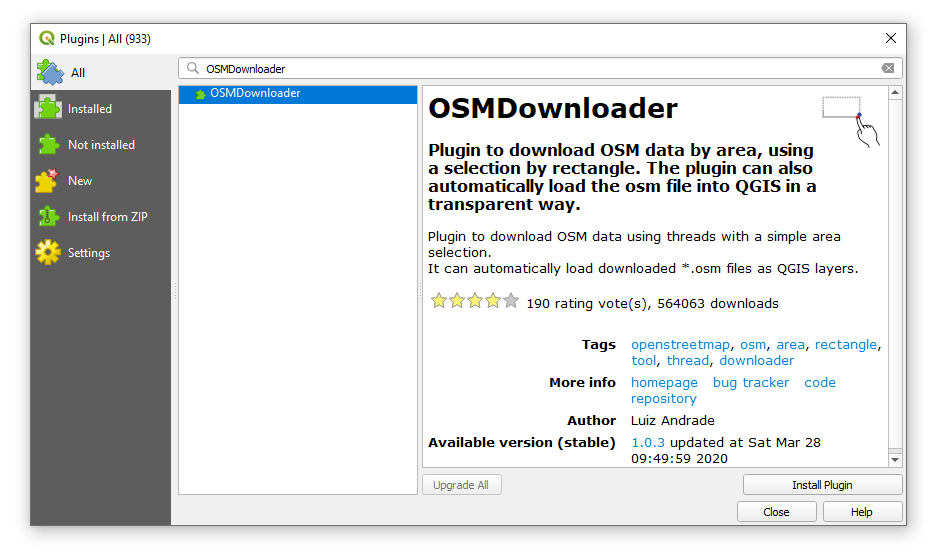
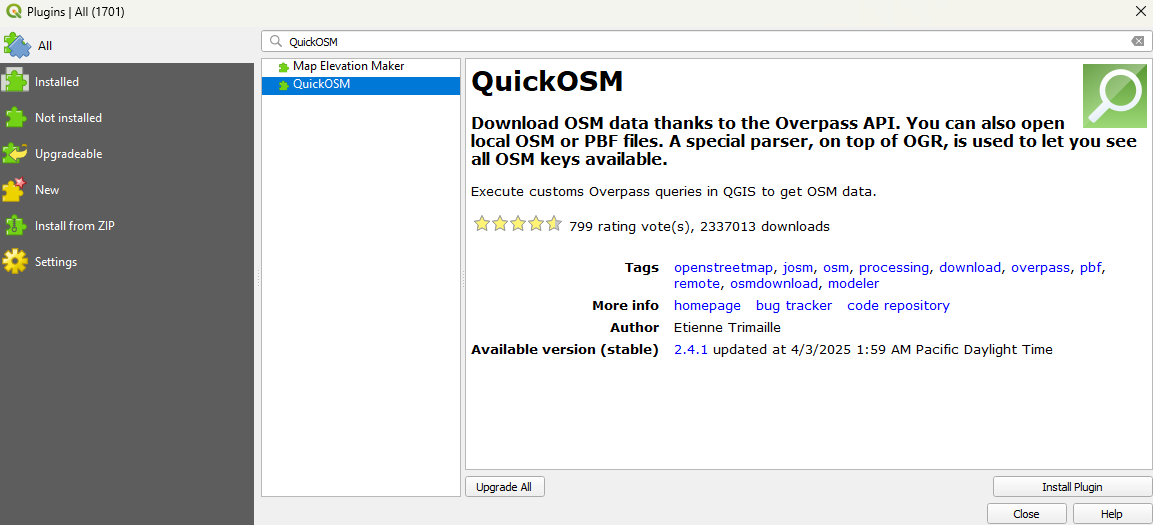
UBC text updated to University of British Columbia

Changed region(s): [[0.0, 0.0, 1.0, 1.0], [0.9893, 0.0, 1.0, 0.0305]]

diff --git a/docs/qgis-openstreetmap.html b/docs/qgis-openstreetmap.html
@@ -6,7 +6,7 @@
   <meta http-equiv="X-UA-Compatible" content="IE=edge" />
   <title>Lab 4 Exploring QGIS and OpenStreetMap | GEM 510: GIS for Forestry and Conservation</title>
   <meta name="description" content="Open Educational Resources for GEM 510 course at the University of British Columbia" />
-  <meta name="generator" content="bookdown 0.44 and GitBook 2.6.7" />
+  <meta name="generator" content="bookdown 0.48 and GitBook 2.6.7" />
 
   <meta property="og:title" content="Lab 4 Exploring QGIS and OpenStreetMap | GEM 510: GIS for Forestry and Conservation" />
   <meta property="og:type" content="book" />
@@ -23,7 +23,7 @@
 <meta name="author" content="Paul D. Pickell" />
 
 
-<meta name="date" content="2025-08-31" />
+<meta name="date" content="2026-11-03" />
 
   <meta name="viewport" content="width=device-width, initial-scale=1" />
   <meta name="apple-mobile-web-app-capable" content="yes" />
@@ -54,70 +54,6 @@
 <script src="libs/anchor-sections-1.1.0/anchor-sections.js"></script>
 
 
-<style type="text/css">
-pre > code.sourceCode { white-space: pre; position: relative; }
-pre > code.sourceCode > span { line-height: 1.25; }
-pre > code.sourceCode > span:empty { height: 1.2em; }
-.sourceCode { overflow: visible; }
-code.sourceCode > span { color: inherit; text-decoration: inherit; }
-pre.sourceCode { margin: 0; }
-@media screen {
-div.sourceCode { overflow: auto; }
-}
-@media print {
-pre > code.sourceCode { white-space: pre-wrap; }
-pre > code.sourceCode > span { display: inline-block; text-indent: -5em; padding-left: 5em; }
-}
-pre.numberSource code
-  { counter-reset: source-line 0; }
-pre.numberSource code > span
-  { position: relative; left: -4em; counter-increment: source-line; }
-pre.numberSource code > span > a:first-child::before
-  { content: counter(source-line);
-    position: relative; left: -1em; text-align: right; vertical-align: baseline;
-    border: none; display: inline-block;
-    -webkit-touch-callout: none; -webkit-user-select: none;
-    -khtml-user-select: none; -moz-user-select: none;
-    -ms-user-select: none; user-select: none;
-    padding: 0 4px; width: 4em;
-    color: #aaaaaa;
-  }
-pre.numberSource { margin-left: 3em; border-left: 1px solid #aaaaaa;  padding-left: 4px; }
-div.sourceCode
-  {   }
-@media screen {
-pre > code.sourceCode > span > a:first-child::before { text-decoration: underline; }
-}
-code span.al { color: #ff0000; font-weight: bold; } /* Alert */
-code span.an { color: #60a0b0; font-weight: bold; font-style: italic; } /* Annotation */
-code span.at { color: #7d9029; } /* Attribute */
-code span.bn { color: #40a070; } /* BaseN */
-code span.bu { color: #008000; } /* BuiltIn */
-code span.cf { color: #007020; font-weight: bold; } /* ControlFlow */
-code span.ch { color: #4070a0; } /* Char */
-code span.cn { color: #880000; } /* Constant */
-code span.co { color: #60a0b0; font-style: italic; } /* Comment */
-code span.cv { color: #60a0b0; font-weight: bold; font-style: italic; } /* CommentVar */
-code span.do { color: #ba2121; font-style: italic; } /* Documentation */
-code span.dt { color: #902000; } /* DataType */
-code span.dv { color: #40a070; } /* DecVal */
-code span.er { color: #ff0000; font-weight: bold; } /* Error */
-code span.ex { } /* Extension */
-code span.fl { color: #40a070; } /* Float */
-code span.fu { color: #06287e; } /* Function */
-code span.im { color: #008000; font-weight: bold; } /* Import */
-code span.in { color: #60a0b0; font-weight: bold; font-style: italic; } /* Information */
-code span.kw { color: #007020; font-weight: bold; } /* Keyword */
-code span.op { color: #666666; } /* Operator */
-code span.ot { color: #007020; } /* Other */
-code span.pp { color: #bc7a00; } /* Preprocessor */
-code span.sc { color: #4070a0; } /* SpecialChar */
-code span.ss { color: #bb6688; } /* SpecialString */
-code span.st { color: #4070a0; } /* String */
-code span.va { color: #19177c; } /* Variable */
-code span.vs { color: #4070a0; } /* VerbatimString */
-code span.wa { color: #60a0b0; font-weight: bold; font-style: italic; } /* Warning */
-</style>
 
 <style type="text/css">
   
@@ -290,54 +226,58 @@ Paul Pickell</p>
 <div id="task-1-downloading-openstreetmap-data-to-qgis" class="section level2 unnumbered hasAnchor">
 <h2>Task 1: Downloading OpenStreetMap data to QGIS<a href="qgis-openstreetmap.html#task-1-downloading-openstreetmap-data-to-qgis" class="anchor-section" aria-label="Anchor link to header"></a></h2>
 <p><strong>Step 1:</strong> Start QGIS and click <strong>New Empty Project</strong> from the Project Templates on your screen.</p>
-<p><img src="images/04-qgis-project-template.png" width="50%" /></p>
+<p><img src="images/04-qgis-project-template.png" alt="" width="50%" /></p>
 <p>The Project Templates prompt will disappear to a white canvas, which is where you are able to view mapped data. On the left of your screen you will see two panes: <strong>Browser</strong> and <strong>Layers</strong>. These are where you can find data sources on your computer or network and the layers that are currently loaded into your map view. Currently, we do not have any data to view, so the Layers pane will be blank. But we do have many sources for data, so let us look at those. Depending on your computer and networking connections, your Browser pane may look different than what is shown below.</p>
-<p><img src="images/04-qgis-add-tiles.png" width="50%" /></p>
+<p><img src="images/04-qgis-add-tiles.png" alt="" width="50%" /></p>
 <p><strong>Step 2:</strong> Save your project. In the top menu, select <strong>Project</strong> then click <strong>Save As…</strong> and navigate to a location on your computer where you want to store your project and related files. You should create a directory specifically for this purpose.</p>
 <p><strong>Step 3:</strong> Expand <strong>XYZ Tiles</strong> and then either double-click <strong>OpenStreetMap</strong> or right-click and select <strong>Add Layer to Project</strong>.</p>
-<p><img src="images/04-qgis-osm-layers.png" width="50%" /></p>
+<p><img src="images/04-qgis-osm-layers.png" alt="" width="50%" /></p>
 <p>This will add the OpenStreetMap base map to your map view, so you should now see your first layer in the Layer pane and the map view should automatically display the new base map.</p>
-<p><img src="images/04-qgis-navigation-bar.png" width="75%" /></p>
+<p><img src="images/04-qgis-navigation-bar.png" alt="" width="75%" /></p>
 <p><strong>Step 4:</strong> Locate the Map Navigation Toolbar at the top. Use the magnifying glass to zoom into the area for Metro Vancouver. Once you find Metro Vancouver, change the scale of the map to 1:250000 at the bottom of your QGIS interface.</p>
-<p><img src="images/04-qgis-osm-basemap-vancouver.png" width="75%" /></p>
+<p><img src="images/04-qgis-osm-basemap-vancouver.png" alt="" width="75%" /></p>
 <p>This current view does not directly show you the OpenStreetMap data. Instead, you are looking at a tile service provided by OpenStreetMap, which symbolizes the OpenStreetMap data and then, depending on your zoom level and location, sends the necessary information to your computer in the form of a tile like the one pictured below showing a 256x256 pixel tile at zoom level 10 (zoom level 1 is the smallest scale world map).</p>
-<p><img src="images/04-qgis-tile.png" width="256pt" /></p>
+<p><img src="images/04-qgis-tile.png" alt="" width="256pt" /></p>
 <p>In order to get the OpenStreetMap data, we need to install a plugin for QGIS. Plugins are written by a community of volunteer developers, some from organizations that pay for the plugin to be developed and then released as FOSS, and others just volunteer their time. Plugins are incredibly important for QGIS, because only basic features end up in the core GIS software. If there is ever something you want to do that is not a basic feature of QGIS, you probably need to search for a plugin or write one yourself!</p>
-<p><strong>Step 5:</strong> From the menu bar at the top, click <strong>Plugins</strong> and then select <strong>Manage and Install Plugins…</strong> to open the <strong>Plugin Manager</strong>. Since these plugins are fetched from a server, you need to be connected to the internet to see plugins available for download. In the search bar, search for the <strong>OSMDownloader</strong> plugin. Click <strong>Install Plugin</strong>.</p>
-<p><img src="images/04-qgis-osm-downloader-plugin.png" width="75%" /></p>
-<p>Once the plugin is installed, you can click <strong>Close</strong> to dismiss the Plugin Manager. Most plugins will automatically add an icon to your toolbar at the top, so search for and click the OSMDownloader icon that looks like this:</p>
-<p><img src="images/04-qgis-osm-downloader-icon.png" width="30pt" /></p>
-<p>Your cursor should now appear as a crosshair on your map and now you can select a rectangular area to fetch the OpenStreetMap data from.</p>
-<p><strong>Step 6:</strong> Click and drag your cursor on the base map to select the UBC campus. A dialogue box will open showing you the extent of your selection. Save the file to the project folder your created earlier. Name the file <strong>UBC.osm</strong> and toggle on <strong>Load layer after download</strong>. Your coordinates need not be exactly the same as the image below, but you can modify your selection if you want by either manually editing the extent values (in decimal degrees) or clicking <strong>Cancel</strong> and then selecting again with your cursor.</p>
-<p><img src="images/04-qgis-osm-downloader-extent.png" width="50%" /></p>
-<p><img src="images/04-qgis-osm-downloader-success.png" width="25%" /></p>
-<p>A progress bar will appear at the top and then a message will be displayed that the download was successful. You should now see an updated list of layers available in your Layers pane.</p>
-<p><img src="images/04-qgis-osm-layers-toggle.png" width="25%" /></p>
+<p><strong>Step 5:</strong> From the menu bar at the top, click <strong>Plugins</strong> and then select <strong>Manage and Install Plugins…</strong> to open the <strong>Plugin Manager</strong>. Since these plugins are fetched from a server, you need to be connected to the internet to see plugins available for download. In the search bar, search for the <strong>QuickOSM</strong> plugin. Click <strong>Install Plugin</strong>.</p>
+<p><img src="images/04-qgis-osm-downloader-plugin.png" alt="" width="75%" /></p>
+<p>Once the plugin is installed, you can click <strong>Close</strong> to dismiss the Plugin Manager. Most plugins will automatically add an icon to your toolbar at the top, so search for and click the QuickOSM icon that looks like this:</p>
+<p><img src="images/04-qgis-osm-downloader-icon.png" alt="" width="30pt" /></p>
+<p>Once you click on the QuickOSM icon, A box will appear showing CTR, Hiking, and Urban, select <strong>Urban</strong>, and below where it says “A village, a town…” type <strong>UBC</strong>, leave it set to “In”, and click on “Run preset”.</p>
+<p>Once it finishes loading, on the left panel you will see the Query options. Select <strong>Quick query</strong>.</p>
+<p><img src="images/04-qgis-osm-quick-query.png" alt="" width="30pt" /></p>
+<p><strong>Step 6:</strong> You will see the fields for <strong>Key</strong> and <strong>Value</strong>. In Key section, start by searching <strong>amenity</strong> and in Value section select <strong>recycling</strong>. Then, below where it says “A village, a town…” type again <strong>UBC</strong>, and leave it set to”In”.</p>
+<p>Next, expand the Advanced option, leave all the settings as default, and save your file under the <strong>Directory</strong> option in ESRI Shapefile format. Then click <strong>Run query</strong>.</p>
+<p>Repeat the same steps with Key/Value, but this time test them one by one with the following values: <strong>toilets</strong>, <strong>bench</strong>, and <strong>tree</strong>.</p>
+<p>To find and learn more about Key/Values you can check this link:
+<a href="https://docs.3liz.org/QuickOSM/" class="uri">https://docs.3liz.org/QuickOSM/</a></p>
+<p>Now, you should now see an updated list of layers available in your Layers pane.</p>
+<p><img src="images/04-qgis-osm-layers-toggle.png" alt="" width="25%" /></p>
 <p><strong>Step 7:</strong> Toggle off the OpenStreetMap base map and depending on how you made your selection in the last step, you should see something like this in your map view:</p>
-<p><img src="images/04-qgis-osm-map.png" width="75%" /></p>
+<p><img src="images/04-qgis-osm-map.png" alt="" width="75%" /></p>
 <p>You can also download OpenStreetMap data directly from the OpenStreetMap website and then drag and drop the .osm file directly into the QGIS map view or the Layers pane.</p>
 <hr />
 </div>
 <div id="task-2-inspecting-and-processing-openstreetmap-data" class="section level2 unnumbered hasAnchor">
 <h2>Task 2: Inspecting and processing OpenStreetMap data<a href="qgis-openstreetmap.html#task-2-inspecting-and-processing-openstreetmap-data" class="anchor-section" aria-label="Anchor link to header"></a></h2>
 <p><strong>Step 1:</strong> Right-click the osm point layer in the Layers pane, select <strong>Properties…</strong> and then select the <strong>Information</strong> tab on the left navigation menu of the <strong>Layer Properties</strong> dialogue box.</p>
-<p><img src="images/04-qgis-layer-properties.png" width="75%" /></p>
+<p><img src="images/04-qgis-layer-properties.png" alt="" width="75%" /></p>
 <p>You should notice under <strong>Information from provider</strong> the <strong>Storage</strong> type is <strong>OSM</strong> and the <strong>Coordinate Reference System (CRS)</strong> is <strong>EPSG:4326 – WGS 84</strong>. OpenStreetMap data will always be distributed with these characteristics. At this point, it is important to recognize how different the OSM spatial data model is from other data structures like an ESRI Shapefile.</p>
 <p>OSM files are comprised of <strong>nodes</strong>, <strong>ways</strong>, and <strong>relations</strong>. These generally correspond to points, lines, and polygons, but not exactly. Each of these feature types are described by <strong>tags</strong> or attributes. Nodes are a pair of latitude/longitude coordinates and can either be a building block for another type of feature (e.g., a way or relation) or they can have attributes of their own or both. A way is a list of two or more nodes that connect and form a line. Ways can be open (lines) or closed (areas). It is important to recognize that a node can participate in multiple ways simultaneously, while also describing itself as a discrete point feature. Relations are just that: they allow us to model relationships between existing nodes, ways, and even other relations. For example, individual islands might be represented by a closed way, but an archipelago would be represented by a relation that contains the closed ways for all the islands. In this way, the OSM data model is flexible and eliminates redundancies of spatial information such that nodes and ways can be recycled into all kinds of relationships.</p>
 <div id="q1.-interpret-the-osm-entity-relationship-data-model-shown-below.-in-a-brief-sentence-describe-each-of-the-seven-connections-between-nodes-ways-relations-and-tags.-1-point-each-for-7-points-total" class="section level5 unnumbered hasAnchor">
 <h5>Q1. Interpret the OSM entity-relationship data model shown below. In a brief sentence, describe each of the seven connections between nodes, ways, relations, and tags. (1 point each for 7 points total)<a href="qgis-openstreetmap.html#q1.-interpret-the-osm-entity-relationship-data-model-shown-below.-in-a-brief-sentence-describe-each-of-the-seven-connections-between-nodes-ways-relations-and-tags.-1-point-each-for-7-points-total" class="anchor-section" aria-label="Anchor link to header"></a></h5>
 <div class="figure"><span style="display:block;" id="fig:04-osm-data-model"></span>
-<img src="images/04-osm-data-model.png" alt="Figure Credit: &lt;a href='https://media.jochentopf.com/media/2018-07-30-talk-sotm2018-data-model-en-slides.pdf'&gt;Jochen Topf&lt;/a&gt;" width="75%" />
+<img src="images/04-osm-data-model.png" alt="Figure Credit: Jochen Topf" width="75%" />
 <p class="caption">
 Figure 4.1: Figure Credit: <a href='https://media.jochentopf.com/media/2018-07-30-talk-sotm2018-data-model-en-slides.pdf'>Jochen Topf</a>
 </p>
 </div>
 <p><strong>Step 2:</strong> Dismiss the <strong>Layer Properties</strong> dialogue box and then right-click the OSM point layer again in the Layers pane, but this time select <strong>Open Attribute Table</strong>. Your table might have a different number of features and different values for the attributes than what is shown below.</p>
-<p><img src="images/04-osm-attribute-table.png" width="75%" /></p>
+<p><img src="images/04-osm-attribute-table.png" alt="" width="75%" /></p>
 <p>The first field <strong>osm_id</strong> is the primary key of the node for the data you have downloaded. This is the primary key of all nodes in the planetary database of OpenStreetMap data (not just your file), which is why it starts from a very large number, 9,653,108,813 in the image above.</p>
 <p>The remaining attributes are the tags, which might look random, and that is because OpenStreetMap was originally designed to store street information, but then evolved into a larger participatory community mapping project. Thus, we see there are some initial keys that relate to streets: <strong>barrier</strong>, <strong>highway</strong>, <strong>address</strong>, etc. But not all OpenStreetMap nodes are related to streets, so over time, the community has added many new tags, and most of these will not apply to every node, which is why we see so many <strong>NULL</strong> values.</p>
 <p><strong>Step 3:</strong> Click and drag the <strong>other_tags</strong> attribute column to expand it so that you can see the other tags for each node. You might need to also scroll to the right to view it or maximize the attribute table view.</p>
-<p><img src="images/04-osm-other-tags.png" width="75%" /></p>
+<p><img src="images/04-osm-other-tags.png" alt="" width="75%" /></p>
 <p>Notice how the <strong>other_tags</strong> are encoded as a comma-separated string list. These tags are structured as key-value pairs. For example, <span class="math inline">\(“amenity” =&gt; “bench”\)</span> indicates the key <span class="math inline">\(“amenity”\)</span> has a value <span class="math inline">\(“bench”\)</span>. All the keys and values are always strings, even numerical values. On the one hand, this data scheme allows for many tags to be stored for any given node and irrelevant tags or attributes need not be stored at all. This type of data encoding is known as <strong>Hstore</strong> and is an alternative way to store information and reduces the size of an attribute table.</p>
 </div>
 <div id="q2.-how-could-an-hstore-data-encoding-affect-how-you-can-interact-with-and-query-the-data-in-a-relational-database-3-points" class="section level5 unnumbered hasAnchor">
@@ -345,9 +285,9 @@ Figure 4.1: Figure Credit: <a href='https://media.jochentopf.com/media/2018-07-3
 <p>In order to actually access any of the attributes in the other_tags field, we need to explode the Hstore. Exploding the Hstore means to parse all the tags for each tuple/node and create a new dataset that contains an attribute table with all the unique attribute fields in the way that we are normally accustomed to with the relational database model.</p>
 <p><strong>Step 3:</strong> From the top navigation menu, click <strong>Processing</strong>, then select <strong>Toolbox</strong>. This opens the <strong>Processing Toolbox</strong> pane for QGIS where you can find all available tools.</p>
 <p><strong>Step 4:</strong> In the search bar, search for the tool <strong>Explode HStore field</strong> and then double click the tool to open it. For the <strong>Input Layer</strong>, select the osm point layer from the drop-down menu and for <strong>HStore field</strong> select <strong>other_tags</strong>. For <strong>Exploded</strong>, enter <strong>osm_points_exploded.gpkg</strong> for the output file name geopackage and optionally the path to the directory where your project is located. You can click the icon to the right of the field and select <strong>Save to File…</strong> to navigate to your project directory.</p>
-<p><img src="images/04-qgis-explode-hstore.png" width="50%" /></p>
+<p><img src="images/04-qgis-explode-hstore.png" alt="" width="50%" /></p>
 <p>If you get an error “Feature (XXXX) from”osm” has invalid geometry. Please fix the geometry or change the “Invalid features filtering” option for this input or globally in Processing settings” then you will need to click on the <strong>Parameters</strong> tab for the Explode HStore Field tool and click the little tool wrench next to the <strong>Input Layer</strong> and select <strong>Skip (ignore) Features with Invalid Geometries</strong> from the <strong>Invalid feature filtering</strong> drop down menu, then re-run the tool.</p>
-<p><img src="images/04-qgis-invalid-geometry.png" width="50%" /></p>
+<p><img src="images/04-qgis-invalid-geometry.png" alt="" width="50%" /></p>
 <p>You should now find a new copy of your osm points in your <strong>Layers</strong> pane. It is also possible to achieve these results by using another popular plugin called <strong>QuickOSM</strong>, which allows you to refine your query based on available tags and it can also parse local .osm and .pbf files (the planetary OpenStreetMap dataset is distributed as a .pbf).</p>
 <p><strong>Step 5:</strong> Repeat the last step again for the other OpenStreetMap layers, ensuring that you name the outputs to correspond to the data type (e.g., polygon, LineString, MultiLineString). You may need to inspect the layer properties to distinguish the two line layers.</p>
 <p><strong>Step 6:</strong> Inspect the attribute table for the MultiLineString layer.</p>
@@ -355,17 +295,17 @@ Figure 4.1: Figure Credit: <a href='https://media.jochentopf.com/media/2018-07-3
 <div id="q3.-what-do-these-features-all-have-in-common-1-point" class="section level5 unnumbered hasAnchor">
 <h5>Q3. What do these features all have in common? (1 point)<a href="qgis-openstreetmap.html#q3.-what-do-these-features-all-have-in-common-1-point" class="anchor-section" aria-label="Anchor link to header"></a></h5>
 <p>MultiLineString is a multipart line feature that is represented as a single tuple in the attribute table with multiple line parts. The line parts need not be connected or continuous, so this feature type allows for multiple line segments to be represented as a single tuple in the attribute table.</p>
-<p><img src="images/04-qgis-identify-tool.png" width="30pt" /></p>
+<p><img src="images/04-qgis-identify-tool.png" alt="" width="30pt" /></p>
 <p><strong>Step 7:</strong> Toggle on the osm_polygons_exploded layer in the map view and then use the <strong>Identify tool</strong> to explore the polygon data and find a key that identifies the UBC campus boundary. Select and export that polygon to a new geopackage file in your project called <strong>osm_ubc_campus_boundary</strong>. Make sure you toggle on <strong>Save only selected features</strong> when you do the export. There might be several options, so you will need to sort through them until you get the proper boundary shown below.</p>
-<p><img src="images/04-qgis-osm-ubcv-boundary.png" width="75%" /></p>
+<p><img src="images/04-qgis-osm-ubcv-boundary.png" alt="" width="75%" /></p>
 <p><strong>Step 8:</strong> Use the <strong>Select by Location</strong> tool to select the osm_points_exploded by the campus polygon you just exported. Toggle on Intersect for the selection. Export the selected points to a new geopackage in your project called <strong>osm_points_exploded_campus</strong>. Ensure that <strong>Save only selected features</strong> is toggled on when you do the export.</p>
-<p><img src="images/04-qgis-select-by-location-tool.png" width="30pt" /></p>
+<p><img src="images/04-qgis-select-by-location-tool.png" alt="" width="30pt" /></p>
 <p>Once you are satisfied with the export, return to the attribute table and click the <strong>Deselect all features</strong> from the layer button at the top. This is an important step, because if you leave the selection, then all future geoprocessing may only occur on the features that you have selected!</p>
-<p><img src="images/04-qgis-deselect-all-features-tool.png" width="30pt" /></p>
+<p><img src="images/04-qgis-deselect-all-features-tool.png" alt="" width="30pt" /></p>
 <p><strong>Step 9:</strong> Open the attribute table for the <strong>osm_points_exploded_campus</strong> layer and click the <strong>Select features using an expression</strong> icon.</p>
-<p><img src="images/04-qgis-select-features-using-expression-tool.png" width="30pt" /></p>
+<p><img src="images/04-qgis-select-features-using-expression-tool.png" alt="" width="30pt" /></p>
 <p>This displays the Select by Expression dialogue and you can enter in a query to subset the data. The expression goes into the blank left side of the dialogue, the center of the dialogue gives you options for constructing your query, and the right-side displays help information based on what is selected from the center. From the center, expand the <strong>Fields and Values</strong> item. There are a ton of tags! Let us search for a tag instead. Using the search bar above, type <strong>natural</strong>, then under Fields and Values double-click <strong>natural</strong>. This will add the field name to your statement on the left. On the right, click the <strong>All Unique</strong> button to see what values are available for this tag. We will select all trees, so double-click <strong>tree</strong>. Add an equal sign to your statement so that it reads <span class="math inline">\(“natural” = ‘tree’\)</span>, as shown below. Notice how the key is in “double quotes” and the value is in ‘single quotes’. Click <strong>Select Features</strong> to execute the statement then close the dialogue and inspect the result.</p>
-<p><img src="images/04-qgis-select-by-expression.png" width="75%" /></p>
+<p><img src="images/04-qgis-select-by-expression.png" alt="" width="75%" /></p>
 <p><strong>Step 10:</strong> With the selection active from the last step, right-click the osm_points_exploded_campus layer in the Layers pane and select <strong>Export</strong> and then <strong>Save Selected Features As…</strong> and name the output <strong>osm_campus_trees</strong>. Ensure that <strong>Save only selected features</strong> is toggled on then click <strong>OK</strong>. Inspect the output in the map. Remember to deselect the attribute table!</p>
 <p>Notice that a lot of street trees are missing on campus? You can rectify this if you want, just sign up for an account at <a href="https://www.openstreetmap.org/">OpenStreetMap.org</a> and start digitizing! You can also use <a href="https://wiki.openstreetmap.org/wiki/IOS">any of a number of free apps on iOS and Android</a> to start mapping from your phone or to record GPS tracks.</p>
 <p><strong>Step 11:</strong> Open the attribute table and use the Identify tool to find a key in the osm_polygons_exploded that you can use to identify buildings. Once you have identified the key, select all the buildings with an expression. Hint: statements involving <span class="math inline">\(NULL\)</span> values for keys need to use the <span class="math inline">\(IS\)</span> and <span class="math inline">\(NOT\)</span> operators, rather than <span class="math inline">\(=\)</span> (equal to) and <span class="math inline">\(!=\)</span> (not equal to).</p>
@@ -379,11 +319,11 @@ Figure 4.1: Figure Credit: <a href='https://media.jochentopf.com/media/2018-07-3
 <div id="task-3-simple-spatial-analysis-with-qgis" class="section level2 unnumbered hasAnchor">
 <h2>Task 3: Simple spatial analysis with QGIS<a href="qgis-openstreetmap.html#task-3-simple-spatial-analysis-with-qgis" class="anchor-section" aria-label="Anchor link to header"></a></h2>
 <p><strong>Step 1:</strong> From the top menu, select <strong>Vector</strong>, then <strong>Geometry Tools</strong>, then <strong>Voronoi Polygons…</strong> For the <strong>Input layer</strong>, select <strong>osm_points_exploded_campus</strong> and change the <strong>Buffer region</strong> to <strong>100</strong>.</p>
-<p><img src="images/04-qgis-ellipse-icon.png" width="30pt" /></p>
+<p><img src="images/04-qgis-ellipse-icon.png" alt="" width="30pt" /></p>
 <p>Click the ellipse button next to the blank field for <strong>Voronoi polygons</strong> and select <strong>Save to GeoPackage…</strong> Name the output <strong>osm_campus_voronoi</strong> and then click <strong>Run</strong>. Inspect the output in the map. You should now have a Voronoi diagram that is a little larger than campus.</p>
 <p><strong>Step 2:</strong> From the main menu, click <strong>Processing</strong> and then <strong>Toolbox</strong> to open the <strong>Processing toolbox</strong> pane (if it is not already open). Search for the <strong>Clip</strong> tool and then clip the Voronoi polygons by the UBC campus boundary and name the output <strong>osm_campus_voronoi_clip</strong> then click <strong>Run</strong>. Inspect the output in the map. You should now see Voronoi polygons within the campus boundary as shown below.</p>
-<p><img src="images/04-qgis-voronoi-polygons.png" width="75%" /></p>
-<p><img src="images/04-qgis-field-calculator-icon.png" width="30pt" /></p>
+<p><img src="images/04-qgis-voronoi-polygons.png" alt="" width="75%" /></p>
+<p><img src="images/04-qgis-field-calculator-icon.png" alt="" width="30pt" /></p>
 <p><strong>Step 3:</strong> Open the attribute table for the clipped Voronoi polygons and click the <strong>Open field calculator</strong> button that looks like an abacus. This will display the <strong>Field Calculator</strong> dialogue. We are going to calculate the polygon areas and save those values to a new field.</p>
 <p><strong>Step 4:</strong> Ensure that <strong>Create a new field</strong> is toggled on. In <strong>Output field name</strong>, the new field is going to be called <strong>Area</strong>. Then type <span class="math inline">\(\$area\)</span> into the <strong>Expression</strong> box on the left and click <strong>OK</strong>. The units of this new Area field are square meters because your QGIS project properties default to the WGS 84 ellipsoid with square meters as the unit for area measurements. You can change this if you want by navigating to <strong>Project</strong> in the main menu, selecting <strong>Properties</strong>, and then changing the units and ellipsoid to whatever you want.</p>
 <p><strong>Step 5:</strong> Open the osm_campus_voronoi_clip layer properties. On the left, select <strong>Symbology</strong>. By default, all features are symbolized the same, called <strong>Single Symbol</strong>. At the top drop-down menu, select <strong>Graduated</strong>.</p>
@@ -391,7 +331,7 @@ Figure 4.1: Figure Credit: <a href='https://media.jochentopf.com/media/2018-07-3
 <p><strong>Step 7:</strong> The <strong>Legend format</strong> is used to programmatically modify the legend text entry in the final map. Because we have selected a Graduated symbology, we will have values that range from <span class="math inline">\(\%1\)</span> to the next value for that color <span class="math inline">\(\%2\)</span>. You can add additional text here to indicate units. For example, <span class="math inline">\(\%1 m² - \%2 m²\)</span> will yield a legend entry that looks like “2425 m2 – 3425 m2”. Add units of square meters to the legend format.</p>
 <p><strong>Step 8:</strong> The <strong>Color Ramp</strong> controls the range of hues (H) and their saturation (S) and value (V). If you click directly on the default color ramp icon, it will open the Select Color Ramp dialogue window where you can modify both discrete and continuous color ramps. You can even control opacity of these values to get some interesting effects on your map. If you opened the Select Color Ramp dialogue, close it. Another option, is to choose a pre-defined color ramp using the downward pointing triangle just to the right of the color ramp. Select <strong>Spectral</strong>.</p>
 <p><strong>Step 9:</strong> You should now see values and colors appear below in the <strong>Classes</strong> tab. If you do not see anything, then look for the <strong>Mode</strong> drop-down menu towards the bottom of the dialogue window and select <strong>Equal Count (Quantile)</strong>. Click <strong>Apply</strong> and inspect how the Voronoi polygons are now symbolized in your map. Try the other modes and increase or decrease the number of <strong>Classes</strong>, applying the changes each time so that you can inspect the map. Return the Mode to <strong>Equal Count (Quantile)</strong>.</p>
-<p><img src="images/04-qgis-symbology.png" width="75%" /></p>
+<p><img src="images/04-qgis-symbology.png" alt="" width="75%" /></p>
 <p><strong>Step 10:</strong> If you closed it, open the symbology of the Voronoi polygons again, and then expand the <strong>Layer Rendering</strong> at the bottom of the dialogue window. Change the <strong>Opacity</strong> of the layer to <span class="math inline">\(50\%\)</span> then click <strong>Apply</strong>. Make sure you have other layers toggled off and the OpenStreetMap base map toggled on. Use the Voronoi diagram and the newly created symbology to interpret the density of OpenStreetMap nodes across campus.</p>
 <div id="q5.-which-areas-of-campus-have-a-high-density-of-nodes-in-openstreetmap-on-ubc-campus-what-are-some-possible-reasons-why-there-might-be-low-node-density-in-the-other-areas-3-points" class="section level5 unnumbered hasAnchor">
 <h5>Q5. Which areas of campus have a high density of nodes in OpenStreetMap on UBC Campus? What are some possible reasons why there might be low node density in the other areas? (3 points)<a href="qgis-openstreetmap.html#q5.-which-areas-of-campus-have-a-high-density-of-nodes-in-openstreetmap-on-ubc-campus-what-are-some-possible-reasons-why-there-might-be-low-node-density-in-the-other-areas-3-points" class="anchor-section" aria-label="Anchor link to header"></a></h5>
